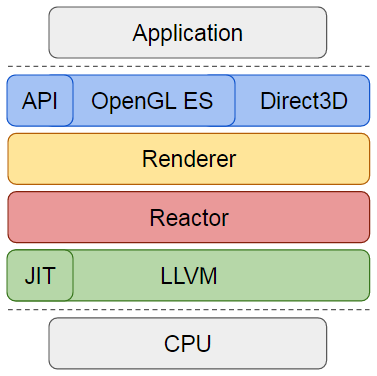
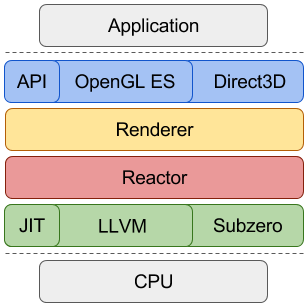
Add Subzero documentation.

diff --git a/README.md b/README.md
@@ -38,6 +38,21 @@ Changes are uploaded to Gerrit by performing:
 
     git push origin HEAD:refs/for/master
 
+Third-Party Dependencies
+------------------------
+
+The [third_party](third_party/) directory contains projects which originated outside of SwiftShader:
+
+[LLVM](third_party/LLVM/) contains an outdated and diverged copy of the [LLVM](http://llvm.org/) compiler framework. Until further notice, maintenance fixes can be made directly in the SwiftShader repository.
+
+[subzero](third_party/subzero/) contains a fork of the [Subzero](https://chromium.googlesource.com/native_client/pnacl-subzero/) project. It is part of Google Chrome's (Portable) [Native Client](https://developer.chrome.com/native-client) project. Its authoritative source is at [https://chromium.googlesource.com/native_client/pnacl-subzero/](https://chromium.googlesource.com/native_client/pnacl-subzero/). The fork was made using [git-subtree](https://github.com/git/git/blob/master/contrib/subtree/git-subtree.txt) to include all of Subzero's history, and until further notice it should **not** diverge from the upstream project. Contributions must be tested using the [README](third_party/subzero/docs/README.rst) instructions, reviewed at [https://chromium-review.googlesource.com](https://chromium-review.googlesource.com/q/project:native_client%252Fpnacl-subzero), and then pulled into the SwiftShader repository.
+
+[llvm-subzero](third_party/llvm-subzero/) contains a minimized set of LLVM dependencies of the Subzero project.
+
+[PowerVR_SDK](third_party/PowerVR_SDK/) contains a subset of the [PowerVR Graphics Native SDK](https://github.com/powervr-graphics/Native_SDK) for running several sample applications.
+
+[googletest](third_party/googletest/) contains the [Google Test](https://github.com/google/googletest) project, as a Git submodule. It is used for running unit tests for Chromium, and Reactor unit tests. Run `git submodule update --init` to obtain/update the code. Any contributions should be made upstream.
+
 Documentation
 -------------
 

diff --git a/docs/Index.md b/docs/Index.md
@@ -20,7 +20,7 @@ The Renderer layer generates specialized processing routines for draw calls and 
 
 Reactor is an embedded language for C++ to dynamically generate code in a WYSIWYG fashion. It allows to specialize the processing routines for the state and shaders used by each draw call. Its syntax closely resembles C and shading languages, to make the code generation easily readable.
 
-The JIT layer is a run-time compiler, such as LLVM's JIT. Reactor records its operations in an in-memory intermediate form which can be materialized by the JIT into a function which can be called directly.
+The JIT layer is a run-time compiler, such as [LLVM](http://llvm.org/)'s JIT. Reactor records its operations in an in-memory intermediate form which can be materialized by the JIT into a function which can be called directly.
 
 Design
 ------
